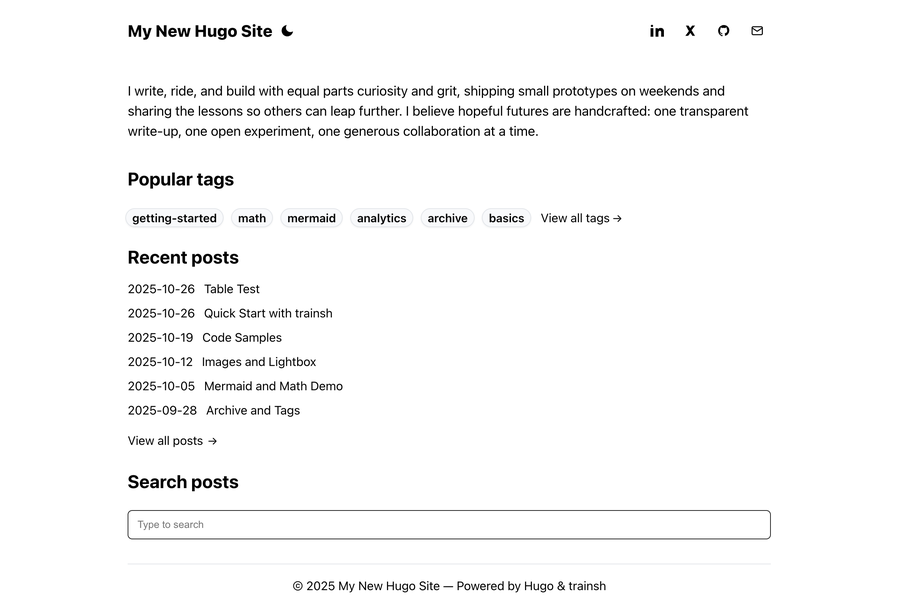
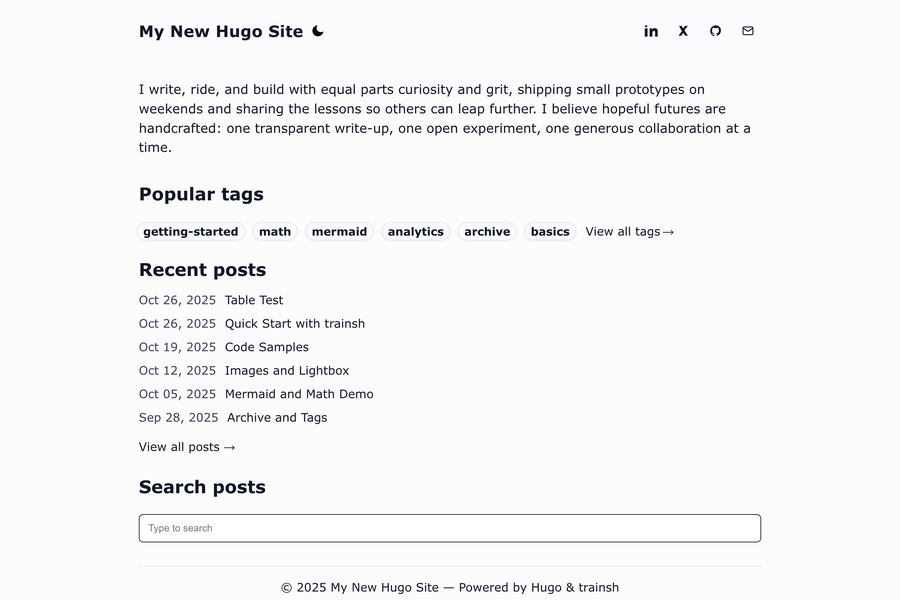
Enhance code highlighting and styling with Chroma integration; update font stack and improve date formatting in archive and home layouts

diff --git a/assets/css/main.css b/assets/css/main.css
@@ -10,8 +10,8 @@
 {{- end -}}
 
 :root {
-    --font-sans-latin: -apple-system, BlinkMacSystemFont, "SF Pro Text", "Segoe UI", "Helvetica Neue", "Noto Sans", Arial, sans-serif;
-    --font-sans-display: -apple-system, BlinkMacSystemFont, "SF Pro Display", "Segoe UI", "Helvetica Neue", Arial, sans-serif;
+    --font-sans-latin: "Verdana", "Geneva", "Tahoma", sans-serif;
+    --font-sans-display: "Verdana", "Geneva", "Tahoma", sans-serif;
     --font-sans-cjk: "PingFang SC", "Hiragino Sans GB", "Microsoft YaHei", "Noto Sans SC", "Source Han Sans SC", sans-serif;
     --font-sans: var(--font-sans-latin);
     --font-body: var(--font-sans-latin);
@@ -22,23 +22,31 @@
 /* Theme variables */
 :root { color-scheme: light; }
 :root {
-  --bg: #ffffff;
-  --fg: #000000;
-  --muted: #000000;
-  --border: #e2e6ea;
-  --surface: #f7f9fb;
-  --link: #000000;
-  --hover-bg: rgba(17, 17, 17, 0.06);
+  --bg: #fcfcfd;
+  --fg: #0f172a;
+  --muted: #334155;
+  --border: #e2e8f0;
+  --surface: #f8fafc;
+  --link: #0f172a;
+  --hover-bg: rgba(15, 23, 42, 0.06);
+  --code-bg: #f6f8fb;
+  --code-fg: #0f172a;
+  --code-border: #e2e8f0;
+  --code-linenum: #6172b0; /* tokyonight-day line numbers */
 }
 html[data-theme="dark"] { color-scheme: dark; }
 html[data-theme="dark"] {
-  --bg: #0d0f13;
-  --fg: #ffffff;
-  --muted: #ffffff;
-  --border: #2b2f36;
-  --surface: #171a22;
-  --link: #ffffff;
-  --hover-bg: rgba(255, 255, 255, 0.08);
+  --bg: #0b1221;
+  --fg: #e5e7eb;
+  --muted: #cbd5e1;
+  --border: #1f2937;
+  --surface: #111827;
+  --link: #e5e7eb;
+  --hover-bg: rgba(226, 232, 240, 0.08);
+  --code-bg: #0f172a;
+  --code-fg: #e5e7eb;
+  --code-border: #1f2937;
+  --code-linenum: #a9b1d6; /* tokyonight-night line numbers */
 }
 
   /* Ensure padding doesn't exceed viewport width */
@@ -1110,13 +1118,135 @@ html[data-theme="dark"] {
     margin: 0;
     padding: 0;
     overflow-x: auto;
+    background: var(--code-bg);
+    color: var(--code-fg);
+    border: none;
+    border-radius: 0 0 8px 8px;
   }
 
   .codeblock-content .highlight pre {
-    font-size: 0.875rem; /* 14px */
+    font-size: 0.95rem;
     margin: 0;
     padding: 1rem 1rem 1rem 0; /* Top, right, bottom padding, left handled by line numbers */
+    background: transparent;
+    color: inherit;
+    border: none;
   }
+
+  /* Inline code background */
+  code {
+    background: var(--code-bg);
+    color: var(--code-fg);
+    border: none;
+    border-radius: 4px;
+    padding: 0.1rem 0.3rem;
+  }
+  html[data-theme="dark"] code {
+    background: var(--code-bg);
+    color: var(--code-fg);
+    border: none;
+  }
+
+  /* Chroma syntax colors: tokyonight-day / tokyonight-night */
+  .highlight .chroma { background: transparent; color: var(--code-fg); }
+  .chroma .err { color: #c64343; }
+  .chroma .ln { color: #6172b0; }
+  .chroma .lnt { color: #6172b0; }
+  .chroma .k { color: #9854f1; }
+  .chroma .kc { color: #8c6c3e; }
+  .chroma .kd { color: #9d7cd8; }
+  .chroma .kn { color: #007197; }
+  .chroma .kp { color: #9854f1; }
+  .chroma .kr { color: #9854f1; }
+  .chroma .kt { color: #0db9d7; }
+  .chroma .na { color: #2e7de9; }
+  .chroma .nc { color: #b15c00; }
+  .chroma .nd { color: #2e7de9; font-weight: bold; }
+  .chroma .nf { color: #2e7de9; }
+  .chroma .s { color: #587539; }
+  .chroma .sa { color: #9d7cd8; }
+  .chroma .sb { color: #587539; }
+  .chroma .sc { color: #587539; }
+  .chroma .sd { color: #a1a6c5; }
+  .chroma .s2 { color: #587539; }
+  .chroma .se { color: #2e7de9; }
+  .chroma .sh { color: #a1a6c5; }
+  .chroma .si { color: #587539; }
+  .chroma .sx { color: #587539; }
+  .chroma .sr { color: #007197; }
+  .chroma .m { color: #8c6c3e; }
+  .chroma .mb { color: #8c6c3e; }
+  .chroma .mf { color: #8c6c3e; }
+  .chroma .mh { color: #8c6c3e; }
+  .chroma .mi { color: #8c6c3e; }
+  .chroma .il { color: #8c6c3e; }
+  .chroma .mo { color: #8c6c3e; }
+  .chroma .o { color: #587539; font-weight: bold; }
+  .chroma .ow { color: #587539; font-weight: bold; }
+  .chroma .c { color: #a1a6c5; font-style: italic; }
+  .chroma .ch { color: #a1a6c5; font-style: italic; }
+  .chroma .cm { color: #a1a6c5; font-style: italic; }
+  .chroma .c1 { color: #a1a6c5; font-style: italic; }
+  .chroma .cp { color: #a1a6c5; font-style: italic; }
+  .chroma .cpf { color: #a1a6c5; font-weight: bold; font-style: italic; }
+  .chroma .gd { color: #c64343; background-color: #e9e9ed; }
+  .chroma .gi { color: #587539; background-color: #e9e9ed; }
+  .chroma .ge { font-style: italic; }
+  .chroma .gs { font-weight: bold; }
+  .chroma .gh { color: #8c6c3e; font-weight: bold; }
+  .chroma .gu { color: #8c6c3e; font-weight: bold; }
+  .chroma .gt { color: #c64343; }
+
+  html[data-theme="dark"] .highlight .chroma { color: #c0caf5; background: transparent; }
+  html[data-theme="dark"] .chroma .err { color: #db4b4b; }
+  html[data-theme="dark"] .chroma .ln { color: #a9b1d6; }
+  html[data-theme="dark"] .chroma .lnt { color: #a9b1d6; }
+  html[data-theme="dark"] .chroma .k { color: #bb9af7; }
+  html[data-theme="dark"] .chroma .kc { color: #e0af68; }
+  html[data-theme="dark"] .chroma .kd { color: #9d7cd8; }
+  html[data-theme="dark"] .chroma .kn { color: #7dcfff; }
+  html[data-theme="dark"] .chroma .kp { color: #bb9af7; }
+  html[data-theme="dark"] .chroma .kr { color: #bb9af7; }
+  html[data-theme="dark"] .chroma .kt { color: #41a6b5; }
+  html[data-theme="dark"] .chroma .na { color: #7aa2f7; }
+  html[data-theme="dark"] .chroma .nc { color: #ff9e64; }
+  html[data-theme="dark"] .chroma .nd { color: #7aa2f7; font-weight: bold; }
+  html[data-theme="dark"] .chroma .nf { color: #7aa2f7; }
+  html[data-theme="dark"] .chroma .s { color: #9ece6a; }
+  html[data-theme="dark"] .chroma .sa { color: #9d7cd8; }
+  html[data-theme="dark"] .chroma .sb { color: #9ece6a; }
+  html[data-theme="dark"] .chroma .sc { color: #9ece6a; }
+  html[data-theme="dark"] .chroma .sd { color: #414868; }
+  html[data-theme="dark"] .chroma .s2 { color: #9ece6a; }
+  html[data-theme="dark"] .chroma .se { color: #7aa2f7; }
+  html[data-theme="dark"] .chroma .sh { color: #414868; }
+  html[data-theme="dark"] .chroma .si { color: #9ece6a; }
+  html[data-theme="dark"] .chroma .sx { color: #9ece6a; }
+  html[data-theme="dark"] .chroma .sr { color: #7dcfff; }
+  html[data-theme="dark"] .chroma .m { color: #e0af68; }
+  html[data-theme="dark"] .chroma .mb { color: #e0af68; }
+  html[data-theme="dark"] .chroma .mf { color: #e0af68; }
+  html[data-theme="dark"] .chroma .mh { color: #e0af68; }
+  html[data-theme="dark"] .chroma .mi { color: #e0af68; }
+  html[data-theme="dark"] .chroma .il { color: #e0af68; }
+  html[data-theme="dark"] .chroma .mo { color: #e0af68; }
+  html[data-theme="dark"] .chroma .o { color: #9ece6a; font-weight: bold; }
+  html[data-theme="dark"] .chroma .ow { color: #9ece6a; font-weight: bold; }
+  html[data-theme="dark"] .chroma .c { color: #414868; font-style: italic; }
+  html[data-theme="dark"] .chroma .ch { color: #414868; font-style: italic; }
+  html[data-theme="dark"] .chroma .cm { color: #414868; font-style: italic; }
+  html[data-theme="dark"] .chroma .c1 { color: #414868; font-style: italic; }
+  html[data-theme="dark"] .chroma .cp { color: #414868; font-style: italic; }
+  html[data-theme="dark"] .chroma .cpf { color: #414868; font-weight: bold; font-style: italic; }
+  html[data-theme="dark"] .chroma .gd { color: #db4b4b; background-color: #15161e; }
+  html[data-theme="dark"] .chroma .gi { color: #9ece6a; background-color: #15161e; }
+  html[data-theme="dark"] .chroma .ge { font-style: italic; }
+  html[data-theme="dark"] .chroma .gs { font-weight: bold; }
+  html[data-theme="dark"] .chroma .gh { color: #e0af68; font-weight: bold; }
+  html[data-theme="dark"] .chroma .gu { color: #e0af68; font-weight: bold; }
+  html[data-theme="dark"] .chroma .gt { color: #db4b4b; }
+  html[data-theme="dark"] .chroma .p { color: #c0caf5; }
+  html[data-theme="dark"] .chroma .gl { text-decoration: underline; }
 
   /* Reset any existing counter and set up spacing */
   .codeblock-content.with-line-numbers .highlight pre {
@@ -1147,7 +1277,7 @@ html[data-theme="dark"] {
     left: -3.5rem;
     width: 2.5rem;
     text-align: right;
-    color: #ffffff;
+    color: var(--code-linenum);
     user-select: none;
     pointer-events: none;
     /* Ensure line numbers stay at the top of wrapped lines */
@@ -1178,34 +1308,38 @@ html[data-theme="dark"] {
 
   /* Codeblock header + copy button */
   .codeblock {
-    border: 1px solid var(--border);
-    border-radius: 6px;
+    border: 1px solid var(--code-border);
+    border-radius: 8px;
     overflow: hidden;
     margin: 1rem 0;
+    background: var(--surface);
   }
   .codeblock-header {
     display: flex;
     align-items: center;
     justify-content: space-between;
     gap: 0.75rem;
-    padding: 0.35rem 0.6rem;
+    padding: 0.45rem 0.8rem;
     background: var(--surface);
-    border-bottom: 1px solid var(--border);
+    border-bottom: 1px solid var(--code-border);
     color: var(--fg);
-    font-size: 0.9em;
+    font-size: 0.92em;
+    font-weight: 600;
   }
   .codeblock .code-lang {
     text-transform: lowercase;
-    opacity: 0.8;
+    opacity: 0.75;
+    letter-spacing: 0.01em;
   }
   .codeblock .copy-btn {
     background: var(--bg);
-    border: 1px solid var(--border);
-    border-radius: 4px;
-    padding: 0.2rem 0.5rem;
+    border: 1px solid var(--code-border);
+    border-radius: 6px;
+    padding: 0.28rem 0.65rem;
     font-size: 0.9em;
     cursor: pointer;
     color: var(--fg);
+    transition: background-color 120ms ease, border-color 120ms ease;
   }
   .codeblock .copy-btn:hover {
     background: var(--hover-bg);
@@ -1215,16 +1349,17 @@ html[data-theme="dark"] {
 
   /* Dark theme adjustments for codeblock header and copy button */
   html[data-theme="dark"] .codeblock {
-    border-color: var(--border);
+    border-color: var(--code-border);
+    background: var(--surface);
   }
   html[data-theme="dark"] .codeblock-header {
     background: var(--surface);
-    border-bottom-color: var(--border);
+    border-bottom-color: var(--code-border);
     color: var(--fg);
   }
   html[data-theme="dark"] .codeblock .copy-btn {
     background: var(--bg);
-    border-color: var(--border);
+    border-color: var(--code-border);
     color: var(--fg);
   }
   html[data-theme="dark"] .codeblock .copy-btn:hover {
@@ -1237,6 +1372,60 @@ html[data-theme="dark"] {
     margin: 0;
     border: none;
     border-radius: 0;
+  }
+  .codeblock-content .highlight {
+    border-top: 1px solid var(--code-border);
+  }
+  .codeblock-content .highlight pre {
+    border-top: 1px solid var(--code-border);
+  }
+  .codeblock-content.with-line-numbers .highlight pre {
+    border-left: 1px solid var(--code-border);
+  }
+  .codeblock-content.with-line-numbers .highlight pre code > span::before {
+    background: transparent;
+  }
+  html[data-theme="dark"] .codeblock-content .highlight pre {
+    border-top-color: var(--code-border);
+  }
+  html[data-theme="dark"] .codeblock-content .highlight {
+    border-top-color: var(--code-border);
+  }
+  html[data-theme="dark"] .codeblock-content.with-line-numbers .highlight pre {
+    border-left-color: var(--code-border);
+  }
+  html[data-theme="dark"] .codeblock-content.with-line-numbers .highlight pre code > span::before {
+    background: transparent;
+  }
+  .codeblock .highlight {
+    background: var(--code-bg);
+  }
+  html[data-theme="dark"] .codeblock .highlight {
+    background: var(--code-bg);
+  }
+  .codeblock .code-lang {
+    color: var(--muted);
+  }
+  html[data-theme="dark"] .codeblock .code-lang {
+    color: var(--muted);
+  }
+  .codeblock .copy-btn {
+    color: var(--fg);
+  }
+  html[data-theme="dark"] .codeblock .copy-btn {
+    color: var(--fg);
+  }
+  .codeblock .highlight pre {
+    color: var(--code-fg);
+  }
+  html[data-theme="dark"] .codeblock .highlight pre {
+    color: var(--code-fg);
+  }
+  .codeblock-content.with-line-numbers .highlight pre code > span::before {
+    color: var(--code-linenum);
+  }
+  html[data-theme="dark"] .codeblock-content.with-line-numbers .highlight pre code > span::before {
+    color: var(--code-linenum);
   }
 
   /* Tables rendered from Markdown */

diff --git a/layouts/_default/_markup/render-codeblock.html b/layouts/_default/_markup/render-codeblock.html
@@ -10,8 +10,8 @@
 {{- end -}}
 {{- $label := cond (eq $lang "text") "plain text" $lang -}}
 
-{{- /* Disable table-based line numbers to use CSS counter instead */ -}}
-{{- $opts := dict "linenos" false -}}
+{{- /* Disable table-based line numbers; force CSS-class output for Chroma */ -}}
+{{- $opts := dict "linenos" false "lineNumbersInTable" false "anchorLineNos" false "noClasses" false "guessSyntax" true -}}
 
 <div class="codeblock" data-lang="{{ $lang }}">
   <div class="codeblock-header">

diff --git a/layouts/home.html b/layouts/home.html
@@ -41,7 +41,7 @@
         {{ range first $recentN (.ByDate.Reverse) }}
           <li>
             {{ $machine := .Date | time.Format "2006-01-02T15:04:05-07:00" }}
-            {{ $human := .Date | time.Format "2006-01-02" }}
+            {{ $human := .Date | time.Format "Jan 02, 2006" }}
             <time class="date" datetime="{{ $machine }}">{{ $human }}</time>
             <a class="archive-title" href="{{ .RelPermalink }}">{{ .LinkTitle }}</a>
           </li>

diff --git a/layouts/archive/list.html b/layouts/archive/list.html
@@ -13,7 +13,7 @@
         {{ range .Pages.ByDate.Reverse }}
           <li>
             {{ $machine := .Date | time.Format "2006-01-02T15:04:05-07:00" }}
-            {{ $human := .Date | time.Format "2006-01-02" }}
+            {{ $human := .Date | time.Format "Jan 02, 2006" }}
             <time class="date" datetime="{{ $machine }}">{{ $human }}</time>
             <a href="{{ .RelPermalink }}" class="archive-title">{{ .Title }}</a>
           </li>

diff --git a/README.md b/README.md
@@ -16,6 +16,18 @@ Then set the theme in your site config:
 ```toml
 # hugo.toml
 theme = 'hugo-trainsh'
+
+# Use Chroma CSS classes so theme styles apply
+[markup]
+  [markup.highlight]
+    noClasses = false
+    lineNos = false
+    lineNumbersInTable = false
+    anchorLineNos = false
+    codeFences = true
+    guessSyntax = true
+    style = "tokyonight-day"
+    styleDark = "tokyonight-night"
 ```
 
 Or try the included example site:
